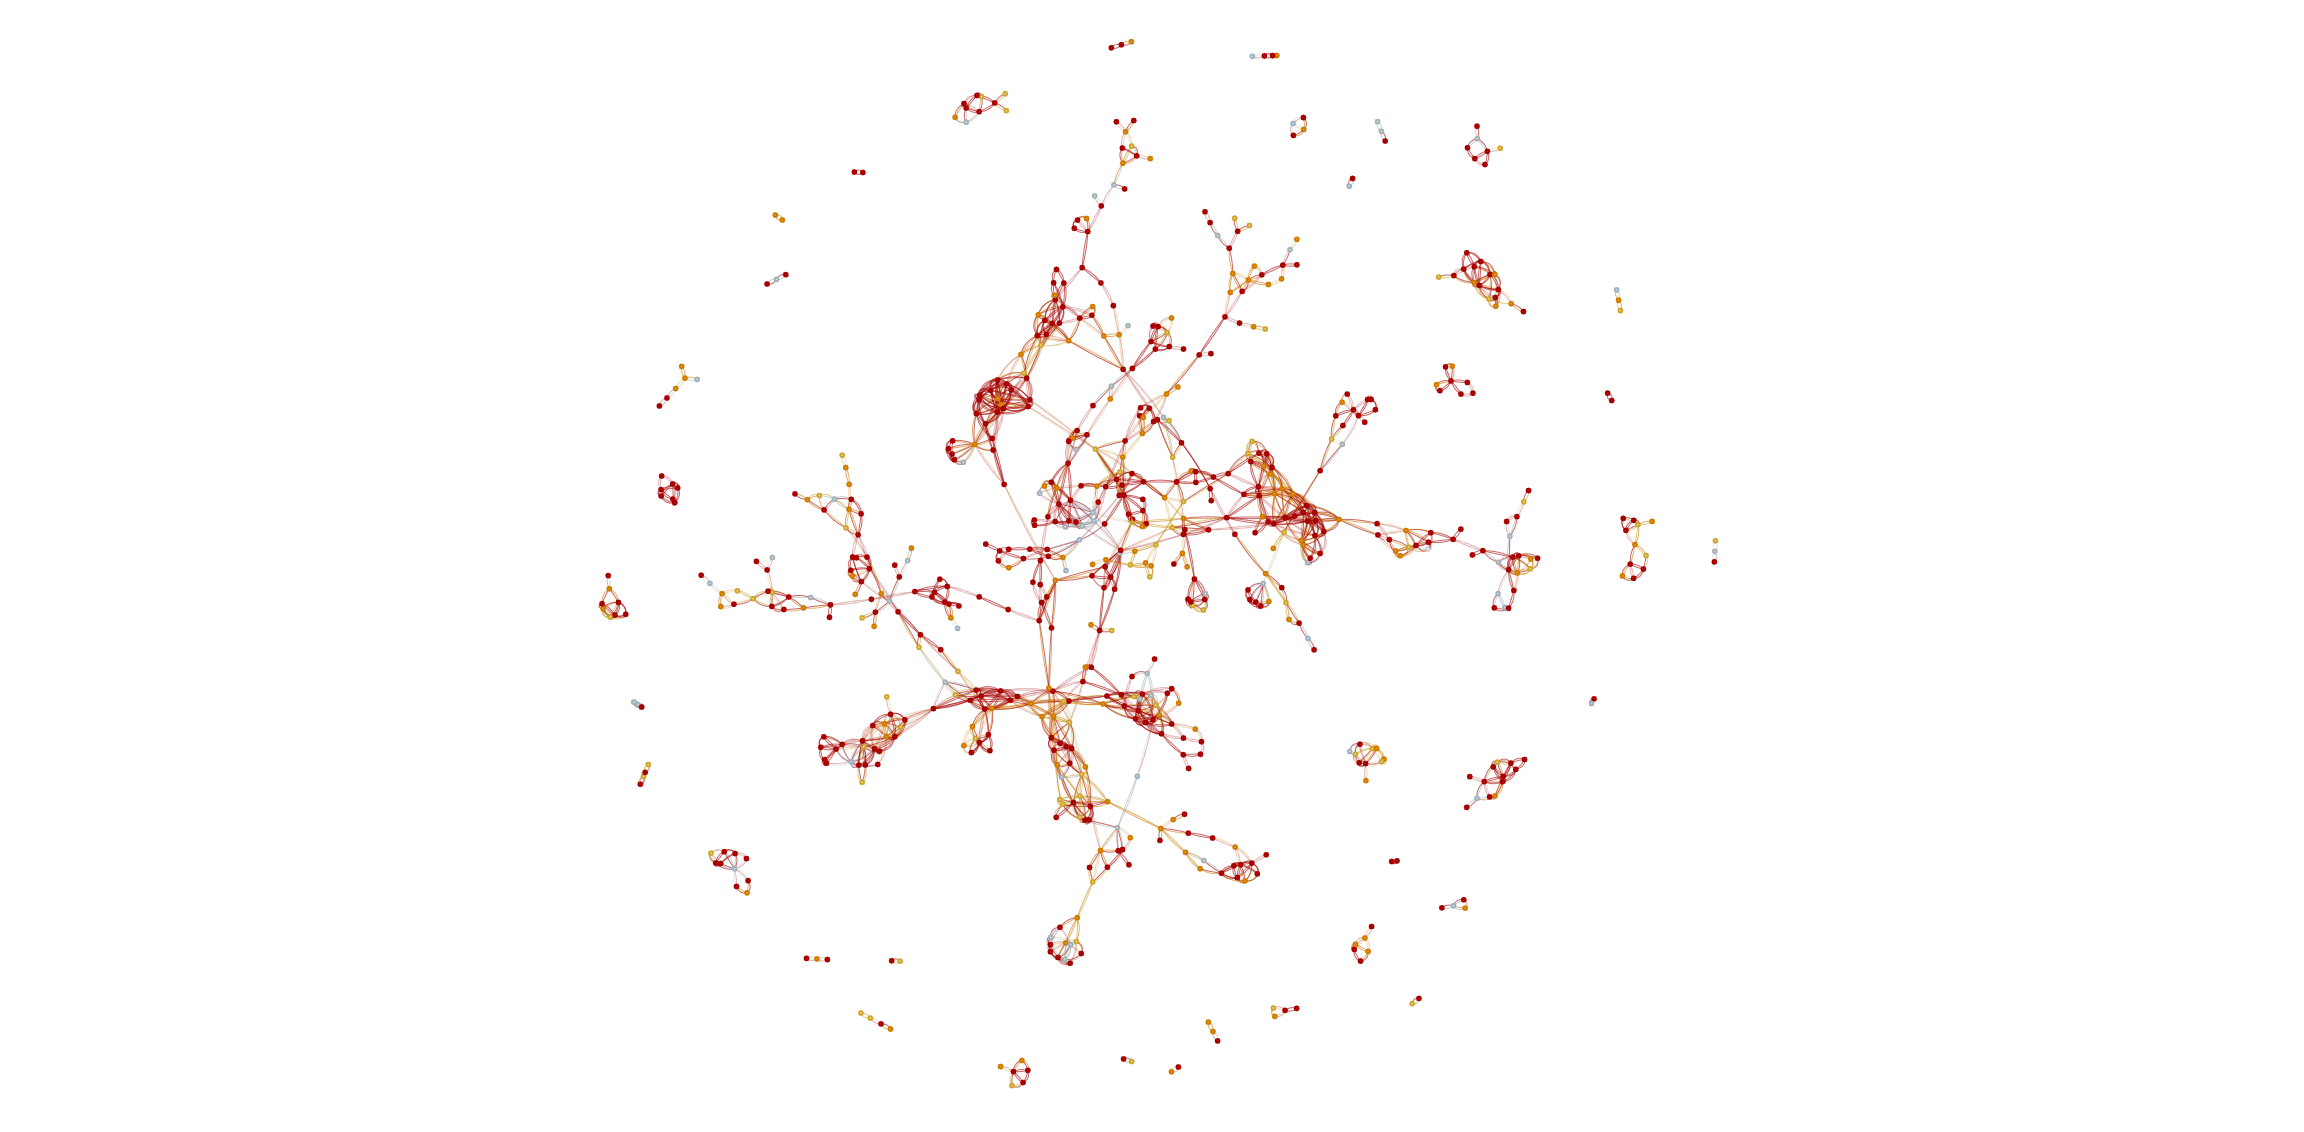
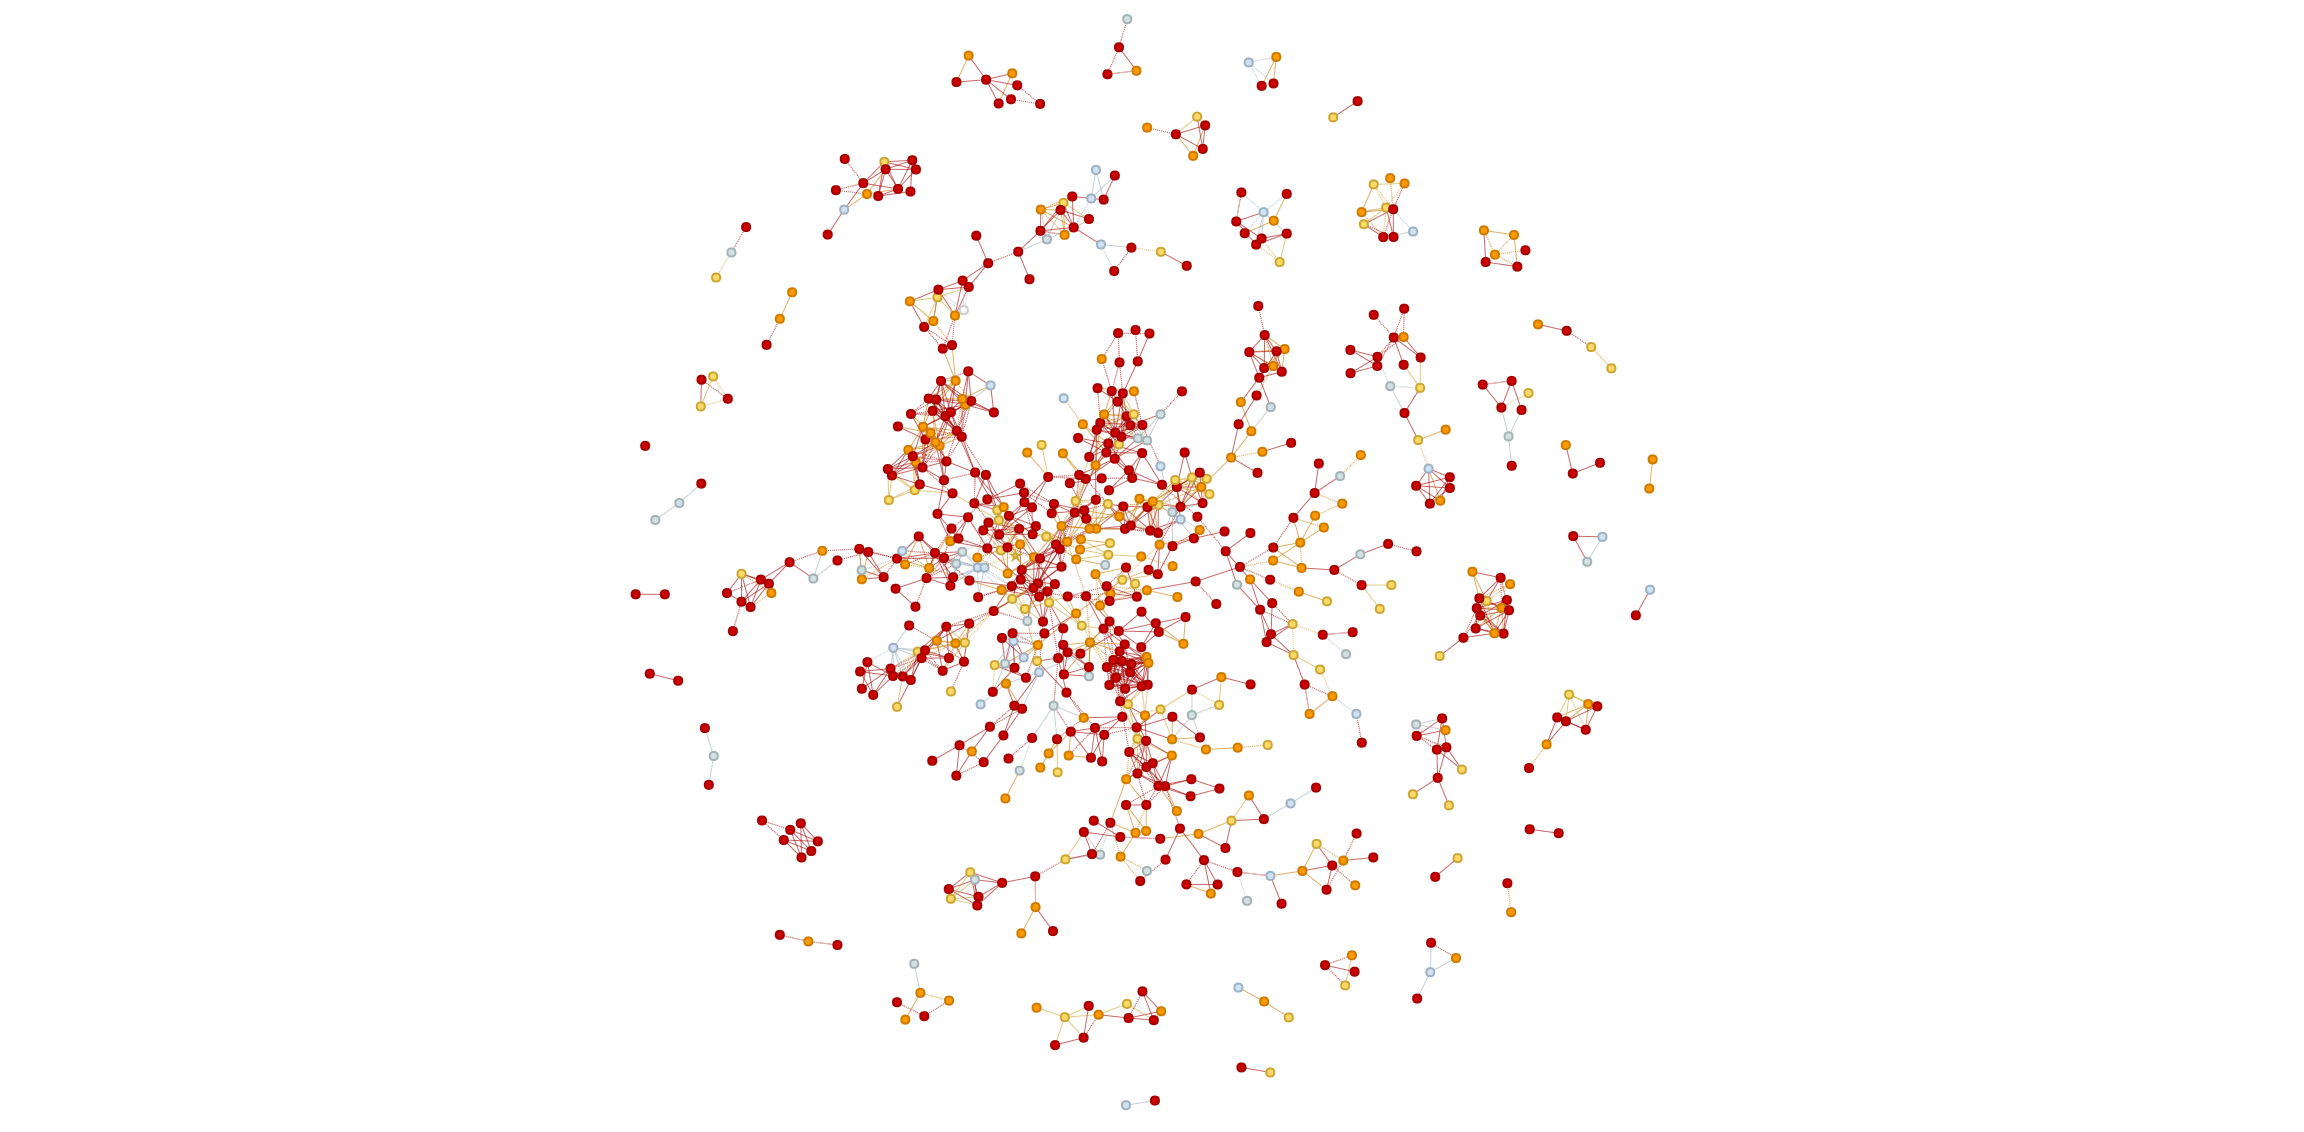
jump maps

diff --git a/routes.html b/routes.html
@@ -51,6 +51,18 @@ var options = {
     },
     "edges": {
         "smooth": false
+    },
+    "physics": {
+      "forceAtlas2Based": {
+        "gravitationalConstant": -26,
+        "centralGravit": 0.005,
+        "springLength": 230,
+        "springConstant": 0.18
+      },
+    "maxVelocity": 146,
+    "solver": "forceAtlas2Based",
+    "timestep": 0.35,
+    "stabilization": { "iterations": 150 }
     }
 }
 
